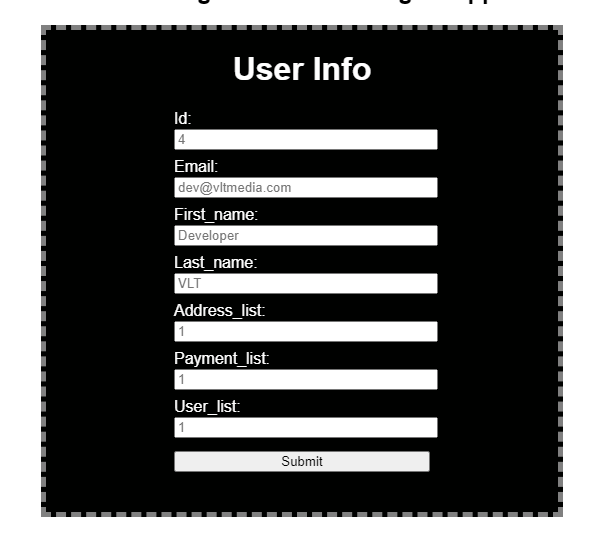
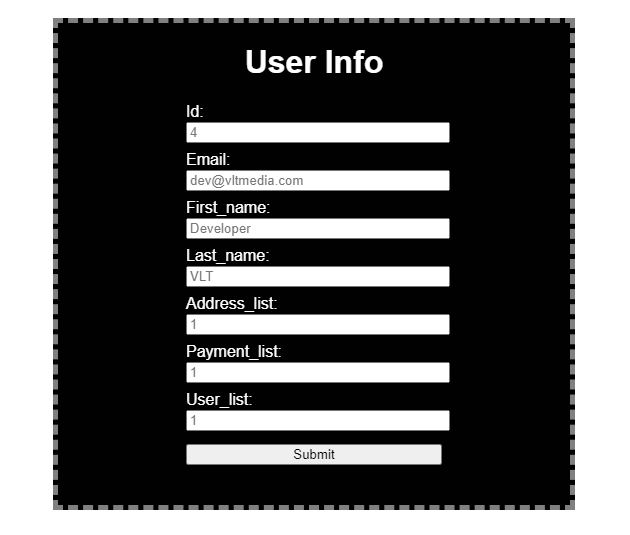
chore: added preview image to the Readme
chore: added preview image to the Readme

Changed region(s): [[0.2709, 0.1794, 0.7525, 0.8673], [0.0602, 0.0, 0.9632, 0.957], [0.3913, 0.0897, 0.6321, 0.1495]]

diff --git a/README.md b/README.md
@@ -6,6 +6,8 @@ Feed a JSON response from a REST request and create a form!
 
 Currently only a Python class, but a cpp and javascript class will be added soon.
 
+![Preview Image](https://github.com/vltmedia/JSONtoHTMLReactJS/blob/master/images/form_preview.png?raw=true)
+
 ## Creates:
 
 - HTML Form
